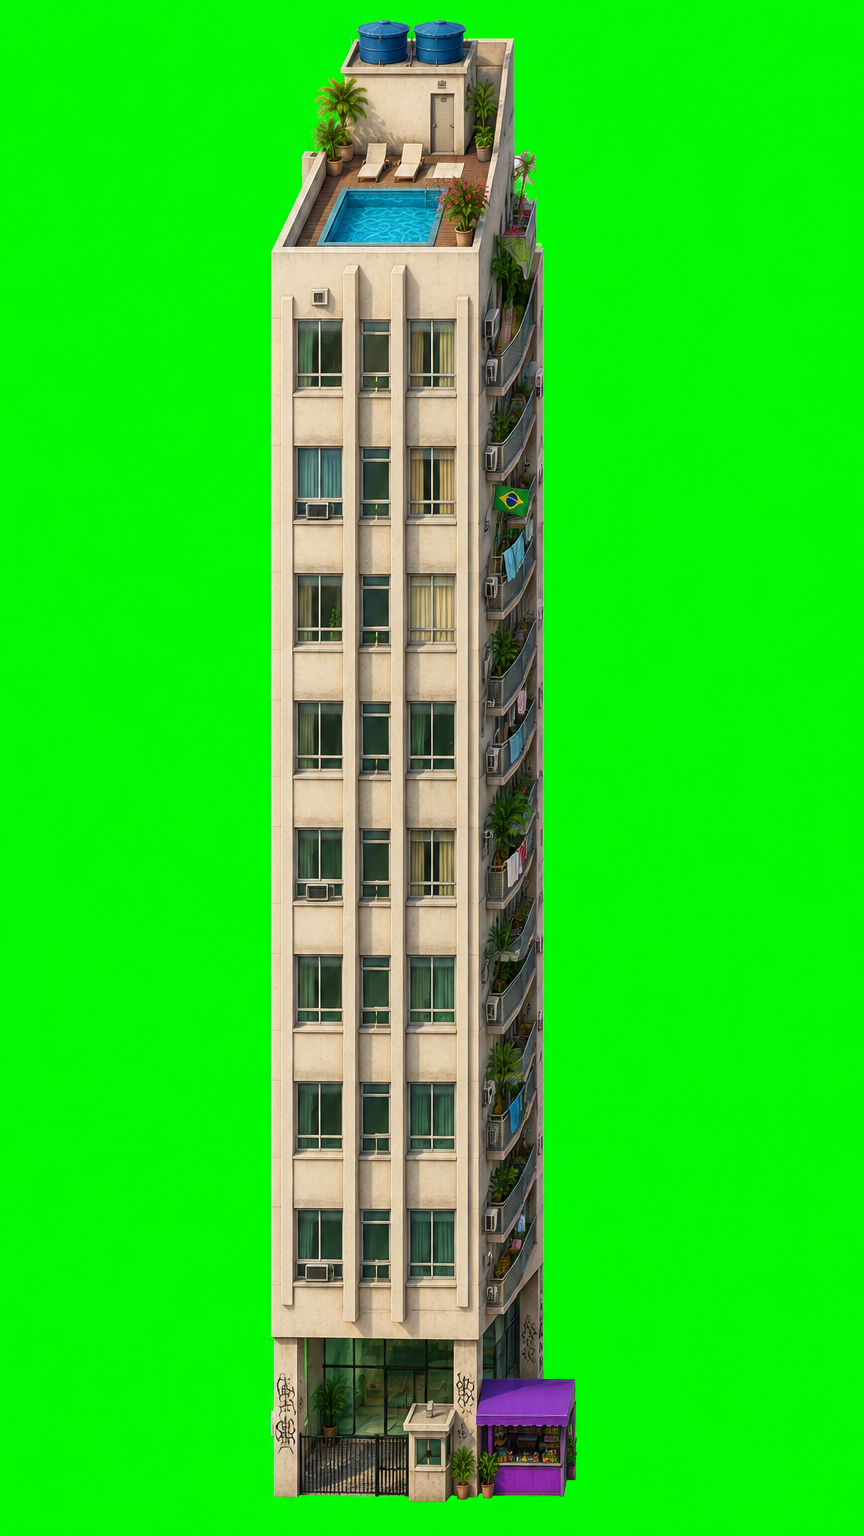
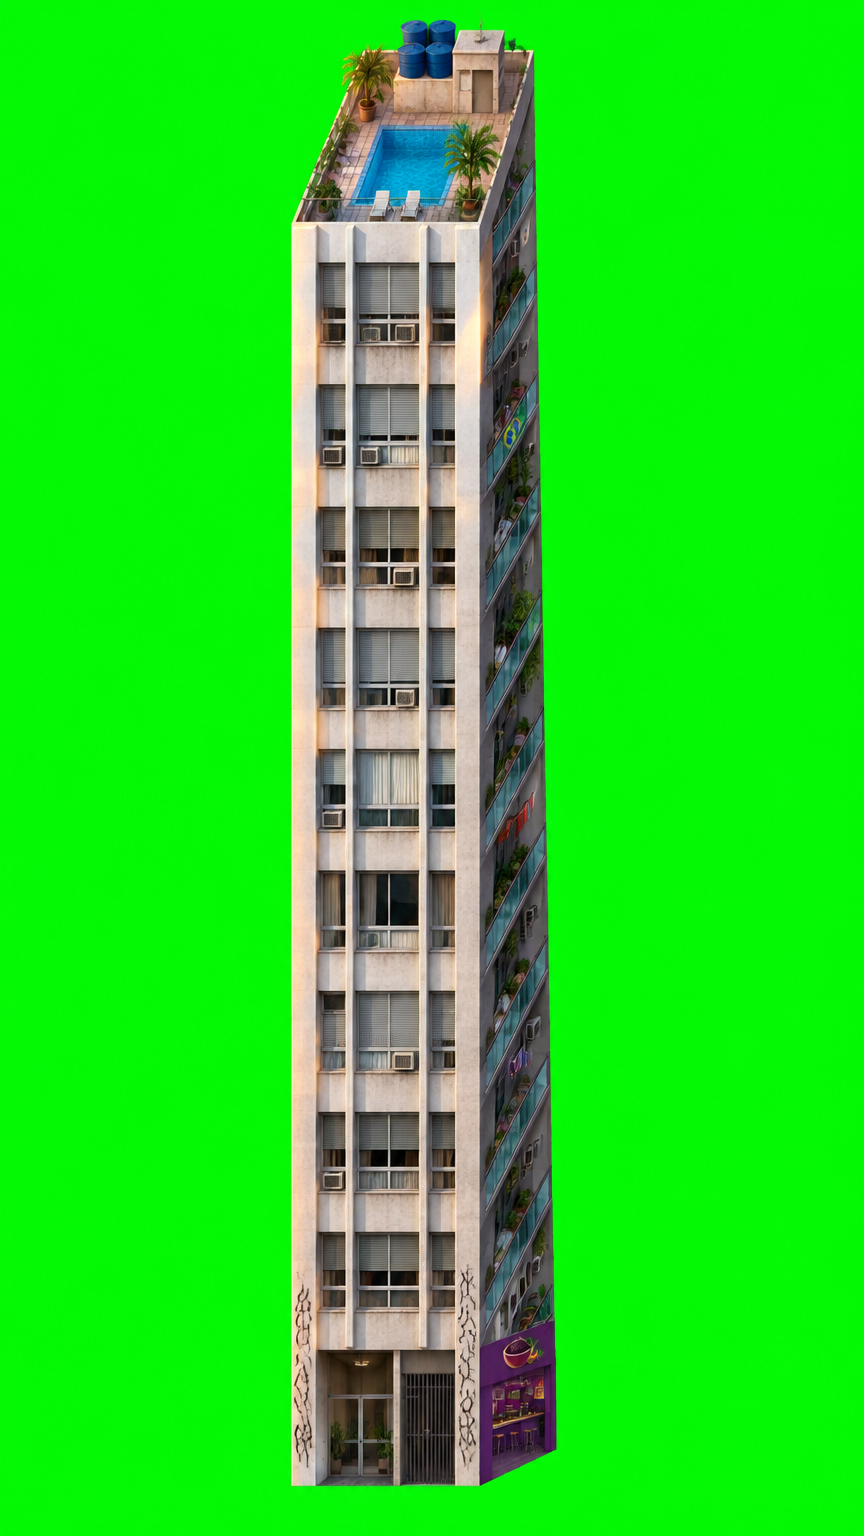
Prédio D desenhado de novo sem quiosque; postes na beira das vias e bandeirinhas presas neles
- Prédio D gerado de novo no Figma: o açaí fica dentro do térreo e nada
  sai da parede para a calçada (o quiosque antigo ficava debaixo do
  jogador).
- Postes saem do meio do calçadão: fileira no meio-fio da avenida, com um
  em cada esquina e a placa da rua presa nele, e um no meio-fio de cada
  rua transversal.
- Bandeirinhas atravessam a rua presas nos postes dos dois meio-fios
  (antes saíam do prédio e terminavam no nada).

Claude-Session: https://claude.ai/code/session_01V3nfXgj3At2PPcBsXwjYXU

Changed region(s): [[0.3125, 0.0, 0.6875, 1.0]]

diff --git a/prototype/src/cenario.js b/prototype/src/cenario.js
@@ -151,8 +151,13 @@ function rua(w, map, s) {
       for (const [dx, dy] of [[-1.3, -0.4], [1.3, 0.3], [0.1, 1.1]]) prop(w, 'cone', x + dx - 0.22, y + dy - 0.22, x + dx + 0.22, y + dy + 0.22, 0.7, 0, { piece: w.orla });
     }
   }
-  // bandeirinhas verde-amarelas atravessando a rua (desde a última Copa)
-  if (H(s, 3, 516) < CENARIO.bandeirinhasChance) prop(w, 'bandeirinhas', w.orla.x0, ys + 3.8, CENARIO.bandeirinhasAteX, ys + 4.0, 4.4, H(s, 3, 517), { solid: false });
+  // bandeirinhas verde-amarelas atravessando a rua (desde a última Copa), presas nos postes dos dois meio-fios
+  if (H(s, 3, 516) < CENARIO.bandeirinhasChance) {
+    const P = CENARIO.postes;
+    const ay = ys - (40 - P.ruaBaixo) - 0.18; // poste do meio-fio de cima (quarteirão de cima)
+    const by = ye + P.ruaCima - 0.18; // poste do meio-fio de baixo
+    prop(w, 'bandeirinhas', P.ruaX - 0.2, ay, P.ruaX + 0.2, by, 4.4, H(s, 3, 517), { solid: false, extra: { ax: P.ruaX, ay, bx: P.ruaX, by } });
+  }
   for (let i = 0; i < CENARIO.santinhos; i++) litter(w, 'santinho', -13 + H(s, i, 518) * 13, ys + 0.5 + H(s, i, 519) * 7, H(s, i, 520));
   litter(w, 'bueiro', -11 + H(s, 1, 512) * 3, ys + 1.0, 0);
   litter(w, 'bueiro', -6 + H(s, 2, 512) * 3, ye - 1.0, 0);
@@ -192,25 +197,25 @@ function calcadao(w, map, b) {
   // sem muro nem tapume no calçadão (pedido do autor, 07/11/2026): muro no meio da calçada não faz sentido
   // garotas de programa paradas na esquina, perto do poste (figuras de ambiente: não bloqueiam nem lutam)
   // na esquina da avenida e na do lado das lojas
-  for (const [gx, gy, i] of [[-0.5, 38.2, 1], [0.3, 38.6, 2], [-8.0, 1.4, 3], [-0.6, 2.2, 4]]) {
+  for (const [gx, gy, i] of [[-1.1, 37.0, 1], [-0.4, 36.6, 2], [-8.4, 1.6, 3], [-1.2, 3.4, 4]]) {
     if (H(b, i, 630) < 0.5) prop(w, 'garota', gx - 0.25, y0 + gy - 0.2, gx + 0.25, y0 + gy, 1.68, H(b, i, 631), { solid: false });
   }
   // orelhão (um a cada dois quarteirões)
   if (b % 2 === 1) prop(w, 'orelhao', -6.2, y0 + 30.6, -5.6, y0 + 31.1, 2.1, seed(8));
-  // postes nas duas fileiras e placas nas esquinas
-  const step = CENARIO.posteCadaM;
-  for (let row = 0; row < 2; row++) {
-    const px = row === 0 ? -7.4 : map.avenidaX0 - 0.45; // a segunda fileira ilumina a avenida
-    for (let yy = 2 + row * (step / 2); yy < 39; yy += step) {
-      prop(w, 'poste', px - 0.18, y0 + yy - 0.36, px + 0.18, y0 + yy, CENARIO.posteAlturaM, H(b, Math.round(yy), 609 + row));
-    }
-  }
-  // cada rua tem um nome só, nas duas esquinas: a de baixo do quarteirão b é a rua b, a de cima é a b + 1
+  // postes na beira das vias (nunca no meio do calçadão): fileira no meio-fio da avenida, com um em cada
+  // esquina, e um no meio-fio de cada rua transversal (as bandeirinhas atravessam a rua entre eles)
+  const P = CENARIO.postes;
+  const poste = (px, py, i) => prop(w, 'poste', px - 0.18, py - 0.36, px + 0.18, py, CENARIO.posteAlturaM, H(b, i, 609));
+  for (let yy = P.avenidaDe; yy < 40; yy += CENARIO.posteCadaM) poste(map.avenidaX0 - 0.45, y0 + yy, Math.round(yy));
+  poste(P.ruaX, y0 + P.ruaCima, 90);
+  poste(P.ruaX, y0 + P.ruaBaixo, 91);
+  // placa com o nome da rua presa no poste da esquina (cada rua tem um nome só, nas duas esquinas)
   const nomeRua = (r) => PLACAS.rua[r % PLACAS.rua.length];
-  prop(w, 'placa', -6.9, y0 + 38.4, -6.6, y0 + 38.7, 2.6, 0, { extra: { text: nomeRua(b), tipo: 'rua' } });
-  prop(w, 'placa', -0.1, y0 + 1.0, 0.2, y0 + 1.3, 2.6, 0, { extra: { text: nomeRua(b + 1), tipo: 'rua' } });
+  const ax = map.avenidaX0 - 0.45;
+  prop(w, 'placa', ax - 0.5, y0 + 38.0 - 0.3, ax - 0.2, y0 + 38.0, 2.6, 0, { solid: false, extra: { text: nomeRua(b), tipo: 'rua' } });
+  prop(w, 'placa', ax - 0.5, y0 + 2.0 - 0.3, ax - 0.2, y0 + 2.0, 2.6, 0, { solid: false, extra: { text: nomeRua(b + 1), tipo: 'rua' } });
   const aviso = PLACAS.aviso[Math.floor(H(b, 2, 611) * PLACAS.aviso.length)];
-  prop(w, 'placa', -3.4 + H(b, 3, 611) * 2, y0 + 26.5, -3.1 + H(b, 3, 611) * 2, y0 + 26.8, 2.4, 0, { extra: { text: aviso, tipo: 'aviso' } });
+  prop(w, 'placa', ax - 0.5, y0 + 26.0 - 0.3, ax - 0.2, y0 + 26.0, 2.4, 0, { solid: false, extra: { text: aviso, tipo: 'aviso' } });
   // santinhos de candidato espalhados perto das ruas (depois da eleição ninguém varre)
   for (let i = 0; i < CENARIO.santinhos; i++) {
     const top = i % 2 === 0;

diff --git a/prototype/src/config.js b/prototype/src/config.js
@@ -145,7 +145,7 @@ export const PREDIOS = {
     a: { w: 328, h: 1463, canto: [219, 1460], esq: 21, topo: 371, fundo: 76, alturaM: 21 },
     b: { w: 311, h: 1473, canto: [244, 1472], esq: 1, topo: 257, fundo: 64, alturaM: 25 },
     c: { w: 369, h: 1484, canto: [238, 1481], esq: 5, topo: 514, fundo: 29, alturaM: 16 },
-    d: { w: 305, h: 1482, canto: [209, 1478], esq: 0, topo: 228, fundo: 25, alturaM: 31 },
+    d: { w: 265, h: 1466, canto: [189, 1465], esq: 1, topo: 205, fundo: 35, alturaM: 31 },
   },
 };
 
@@ -268,12 +268,12 @@ export const CENARIO = {
   meio: ['acai', 'pastelaria', 'boteco', 'pastelaria', 'acai', 'boteco', 'pastelaria', 'acai', 'boteco'],
   esquerda2: ['pastelaria', 'acai', 'boteco', 'acai', 'pastelaria', 'boteco', 'acai', 'boteco', 'pastelaria'],
   carrinho: ['milho', 'banca', 'picole', 'milho', 'banca', 'milho', 'picole', 'banca', 'milho'],
-  posteCadaM: 12, // postes nas duas fileiras do calçadão
+  posteCadaM: 12, // postes no meio-fio da avenida
+  postes: { avenidaDe: 2, ruaX: -7.0, ruaCima: 0.76, ruaBaixo: 39.6 }, // y no quarteirão (0 = rua de cima); ruaX: postes das ruas transversais
   posteAlturaM: 6.4, // altura do poste de luz com o gato de fios
   lixoPorQuarteirao: 34, // sujeira no chão (só desenho): manchas, latinhas, papel, sacos, poças
   santinhos: 10, // santinhos de candidato no chão, por rua e por quarteirão
   bandeirinhasChance: 0.6, // bandeirinhas verde-amarelas atravessando a rua
-  bandeirinhasAteX: 1.0, // a rua transversal termina na avenida
   morro: { motosPorViela: 2, lixoPorPedaco: 14 },
   // polícia na favela (ambiente): camburão no pé do morro (começo em x) e nas primeiras lajes,
   // policiais na entrada das vielas indicadas (índice do pedaço da rota), barricada numa viela

diff --git a/prototype/src/render_cenario.js b/prototype/src/render_cenario.js
@@ -432,23 +432,29 @@ function drawOverhead(ctx, p, cam, ppu, t) {
     ctx.stroke();
     return;
   }
-  // bandeirinhas verde-amarelas
+  // bandeirinhas verde-amarelas: de uma ponta à outra (presas nos postes, ax/ay -> bx/by no chão)
+  cam.toScreen(p.ax ?? p.x0, p.ay ?? p.y1, pt);
+  const ax = pt.x;
+  const ay = pt.y - H;
+  cam.toScreen(p.bx ?? p.x1, p.by ?? p.y1, pt2);
+  const bx = pt2.x;
+  const by = pt2.y - H;
+  const len = Math.hypot(bx - ax, by - ay);
+  const cai = len * 0.06 + Math.sin(t * 1.3 + p.v * 9) * 2; // o fio cede no meio
+  const at = (u) => [ax + (bx - ax) * u, ay + (by - ay) * u + 4 * cai * u * (1 - u)];
   ctx.strokeStyle = 'rgba(30,30,30,0.6)';
   ctx.lineWidth = 1;
   ctx.beginPath();
-  ctx.moveTo(x0, y);
-  ctx.quadraticCurveTo((x0 + x1) / 2, y + sag * 2, x1, y);
+  ctx.moveTo(ax, ay);
+  ctx.quadraticCurveTo((ax + bx) / 2, (ay + by) / 2 + cai * 2, bx, by);
   ctx.stroke();
-  const step = ppu * 0.55;
-  const n = Math.max(2, Math.floor((x1 - x0) / step));
+  const n = Math.max(2, Math.floor(len / (ppu * 0.55)));
   const s = ppu * 0.28;
   for (let pass = 0; pass < 2; pass++) {
     ctx.fillStyle = pass ? '#ffd21f' : '#1f9a44';
     ctx.beginPath();
-    for (let i = pass; i < n; i += 2) {
-      const u = i / n;
-      const x = x0 + (x1 - x0) * u;
-      const yy = y + 4 * sag * 2 * u * (1 - u) * 0.5;
+    for (let i = pass + 1; i < n; i += 2) {
+      const [x, yy] = at(i / n);
       ctx.moveTo(x - s / 2, yy);
       ctx.lineTo(x + s / 2, yy);
       ctx.lineTo(x, yy + s * 1.1);

diff --git a/docs/design/MAPAS_CARACTERIZACAO.md b/docs/design/MAPAS_CARACTERIZACAO.md
@@ -172,7 +172,7 @@ As ruas transversais saem dos prédios e terminam na avenida, com carros e ônib
 
 ### Postes e muros
 
-Os postes de luz são de concreto, cheios de fio de gato, com transformador e pipa presa. O poste com o cartaz "vote em mim de novo" saiu do jogo. Não há muro nem tapume no calçadão da Orla: muro no meio da calçada não faz sentido (pedido do autor, 07/11/2026). Fica só a fachada pichada do fim da Orla, que marca onde a Orla acaba, ao lado da escadaria do morro. A arte dos muros (horizontais e verticais) continua em `docs/arte/cenario_orla/` para o morro.
+Os postes de luz são de concreto, cheios de fio de gato, com transformador e pipa presa. Ficam sempre na beira das vias, nunca no meio do calçadão: uma fileira no meio-fio da avenida (com um em cada esquina, onde vai a placa com o nome da rua) e um no meio-fio de cada rua transversal. As bandeirinhas atravessam a rua presas nesses dois postes (pedido do autor, 07/11/2026). O poste com o cartaz "vote em mim de novo" saiu do jogo. Não há muro nem tapume no calçadão da Orla: muro no meio da calçada não faz sentido (pedido do autor, 07/11/2026). Fica só a fachada pichada do fim da Orla, que marca onde a Orla acaba, ao lado da escadaria do morro. A arte dos muros (horizontais e verticais) continua em `docs/arte/cenario_orla/` para o morro.
 
 ### Subida do Morro
 
